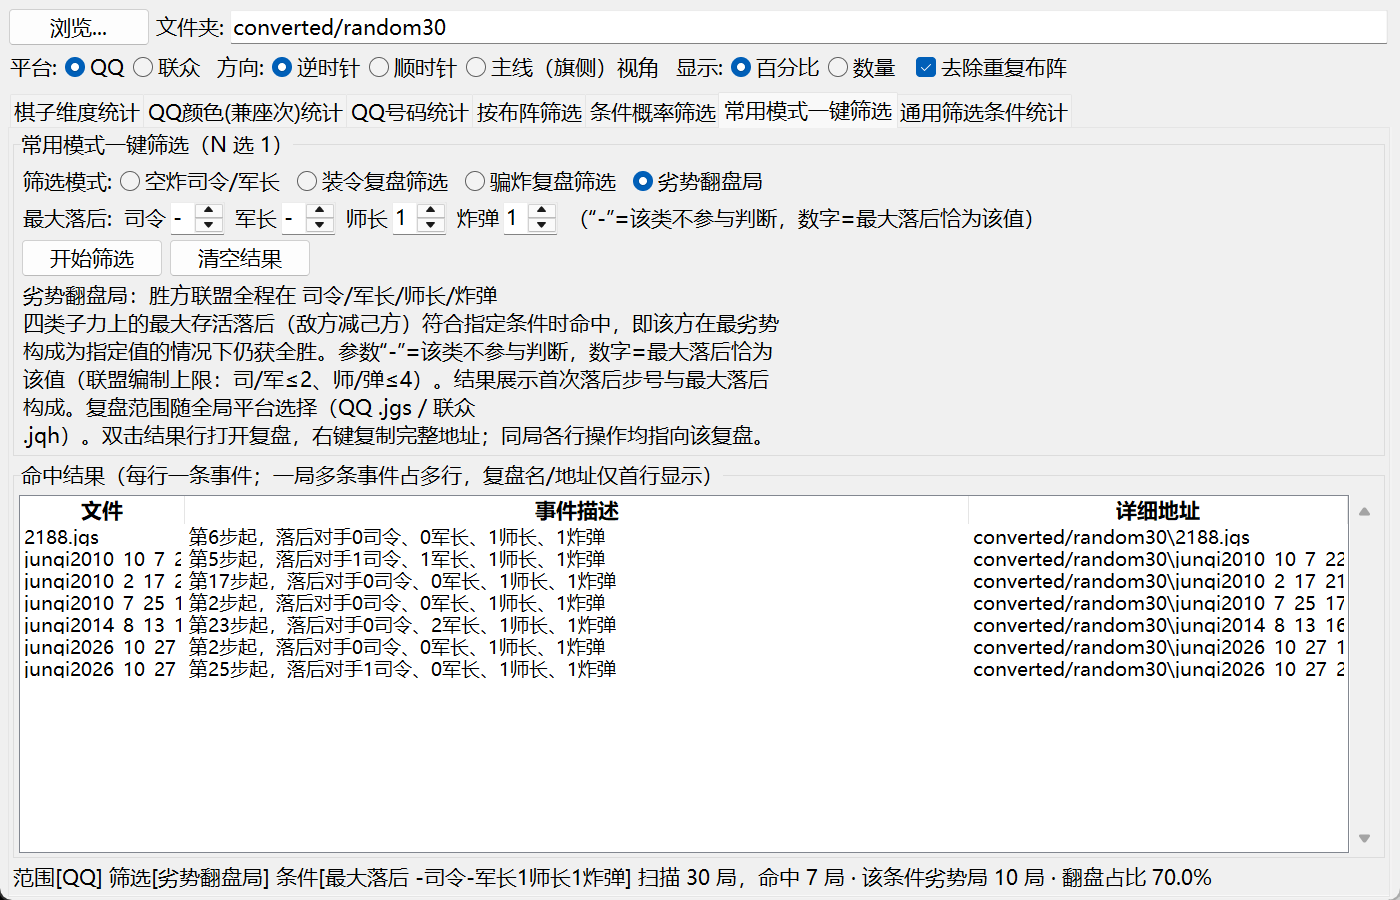
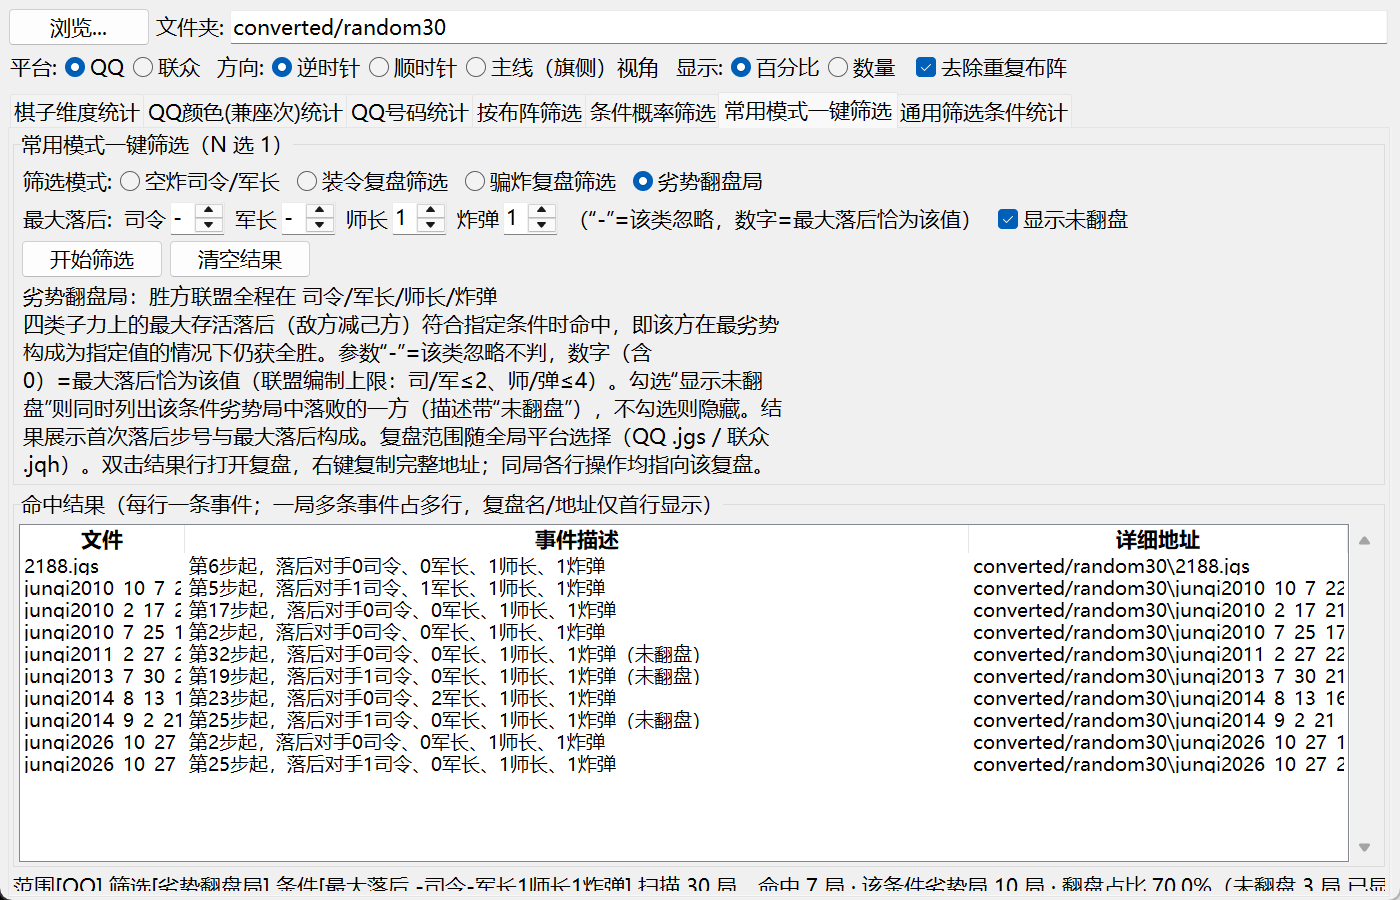
feat: comeback filter restores 0 tier and adds show-non-comeback toggle
Params now offer "-" (ignore), 0 (strict zero deficit) and exact values.
New 显示未翻盘 checkbox lists the disadvantage games where the trailing
side lost (desc suffixed 未翻盘) from cached results without rescanning;
hidden by default. Analysis functions return (win_rows, loss_rows) with
per-game mutual exclusion.

diff --git a/stats_gui.py b/stats_gui.py
@@ -4390,10 +4390,12 @@ HINT_PIANZHA = (
 HINT_COMEBACK = (
     "劣势翻盘局：胜方联盟全程在 司令/军长/师长/炸弹 四类子力上的最大存活"
     "落后（敌方减己方）符合指定条件时命中，即该方在最劣势构成为指定值的"
-    "情况下仍获全胜。参数“-”=该类不参与判断，数字=最大落后恰为该值"
-    "（联盟编制上限：司/军≤2、师/弹≤4）。结果展示首次落后步号与最大落后"
-    "构成。复盘范围随全局平台选择（QQ .jgs / 联众 .jqh）。双击结果行打开"
-    "复盘，右键复制完整地址；同局各行操作均指向该复盘。")
+    "情况下仍获全胜。参数“-”=该类忽略不判，数字（含 0）=最大落后恰为"
+    "该值（联盟编制上限：司/军≤2、师/弹≤4）。勾选“显示未翻盘”则同时列出"
+    "该条件劣势局中落败的一方（描述带“未翻盘”），不勾选则隐藏。结果展示"
+    "首次落后步号与最大落后构成。复盘范围随全局平台选择（QQ .jgs / 联众 "
+    ".jqh）。双击结果行打开复盘，右键复制完整地址；同局各行操作均指向"
+    "该复盘。")
 
 
 class QQQuickFilterPanel(ttk.Frame):
@@ -4459,17 +4461,22 @@ class QQQuickFilterPanel(ttk.Frame):
         self.cb_w = tk.StringVar(value="-")
         ttk.Label(self.comeback_row, text="最大落后:").pack(side=tk.LEFT)
         for label, var, vals in (
-                ("司令", self.cb_x, ("-", "1", "2")),
-                ("军长", self.cb_y, ("-", "1", "2")),
-                ("师长", self.cb_z, ("-", "1", "2", "3", "4")),
-                ("炸弹", self.cb_w, ("-", "1", "2", "3", "4"))):
+                ("司令", self.cb_x, ("-", "0", "1", "2")),
+                ("军长", self.cb_y, ("-", "0", "1", "2")),
+                ("师长", self.cb_z, ("-", "0", "1", "2", "3", "4")),
+                ("炸弹", self.cb_w, ("-", "0", "1", "2", "3", "4"))):
             ttk.Label(self.comeback_row, text=label).pack(
                 side=tk.LEFT, padx=(8, 2))
             ttk.Spinbox(self.comeback_row, values=vals, width=3,
                         textvariable=var).pack(side=tk.LEFT)
         ttk.Label(self.comeback_row,
-                  text="（“-”=该类不参与判断，数字=最大落后恰为该值）").pack(
+                  text="（“-”=该类忽略，数字=最大落后恰为该值）").pack(
             side=tk.LEFT, padx=(8, 0))
+        self.cb_show_loss = tk.BooleanVar(value=False)
+        ttk.Checkbutton(self.comeback_row, text="显示未翻盘",
+                        variable=self.cb_show_loss,
+                        command=self._on_show_loss_toggle).pack(
+            side=tk.LEFT, padx=(12, 0))
 
         self.btn_row = ttk.Frame(top)
         self.btn_row.pack(fill=tk.X, padx=6, pady=(2, 2))
@@ -4533,6 +4540,11 @@ class QQQuickFilterPanel(ttk.Frame):
                 text=HINT_ZHUANGLING if key == "fake_general" else HINT_PIANZHA)
         self.clear_stats()
 
+    def _on_show_loss_toggle(self) -> None:
+        """勾选切换未翻盘行显隐: 直接按缓存结果重绘, 无需重扫。"""
+        if self._scan_result is not None:
+            self._poll_worker()
+
     def _start_scan(self) -> None:
         folder = self._folder_var.get().strip()
         if not folder or not Path(folder).is_dir():
@@ -4580,10 +4592,11 @@ class QQQuickFilterPanel(ttk.Frame):
                         for jqh_file in files:
                             try:
                                 raw = open(jqh_file, "rb").read()
-                                hits, cond = find_jqh_comeback_games(
+                                win_hits, loss_hits = find_jqh_comeback_games(
                                     raw, comeback_limits)
-                                cond_games += int(cond)
-                                for rec in hits:
+                                cond_games += int(bool(win_hits)
+                                                  or bool(loss_hits))
+                                for rec in win_hits + loss_hits:
                                     rows.append((jqh_file, rec))
                             except Exception:
                                 failed += 1
@@ -4596,10 +4609,11 @@ class QQQuickFilterPanel(ttk.Frame):
                         for jgs_file in files:
                             try:
                                 rep = parse_jgs(jgs_file)
-                                hits, cond = find_comeback_games(
+                                win_hits, loss_hits = find_comeback_games(
                                     rep, comeback_limits)
-                                cond_games += int(cond)
-                                for rec in hits:
+                                cond_games += int(bool(win_hits)
+                                                  or bool(loss_hits))
+                                for rec in win_hits + loss_hits:
                                     rows.append((jgs_file, rec))
                             except Exception:
                                 failed += 1
@@ -4727,16 +4741,30 @@ class QQQuickFilterPanel(ttk.Frame):
             return f"{side}方，{ev['a']}骗炸（{ev['y']}步）"
 
         hit_files = set()
+        win_files: set[str] = set()
+        loss_files: set[str] = set()
+        shown_files: set[str] = set()
         n_empty = 0
         for full_path, recs in grouped.items():
             hit_files.add(os.path.basename(full_path))
             for k, r in enumerate(recs):
                 if filter_key == "comeback":
+                    is_loss = bool(r.get("loss"))
+                    if is_loss:
+                        loss_files.add(full_path)
+                        if not self.cb_show_loss.get():
+                            continue
+                    else:
+                        win_files.add(full_path)
                     x, y, z, w = r["deficit"]
                     desc = (f"第{r['start']}步起，落后对手"
                             f"{x}司令、{y}军长、{z}师长、{w}炸弹")
-                    values = (os.path.basename(full_path) if k == 0 else "",
-                              desc, full_path if k == 0 else "")
+                    if is_loss:
+                        desc += "（未翻盘）"
+                    first = full_path not in shown_files
+                    shown_files.add(full_path)
+                    values = (os.path.basename(full_path) if first else "",
+                              desc, full_path if first else "")
                 elif filter_key in ("fake_general", "bomb_bait"):
                     values = (os.path.basename(full_path) if k == 0 else "",
                               fake_desc(r), full_path if k == 0 else "")
@@ -4760,13 +4788,16 @@ class QQQuickFilterPanel(ttk.Frame):
         if filter_key == "comeback":
             x, y, z, w = self.cb_x.get(), self.cb_y.get(), self.cb_z.get(), \
                 self.cb_w.get()
-            pct = (f"{100.0 * len(hit_files) / cond_games:.1f}%"
+            pct = (f"{100.0 * len(win_files) / cond_games:.1f}%"
                    if cond_games else "—")
             status = (f"范围[{platform_text}] 筛选[劣势翻盘局] "
                       f"条件[最大落后 {x}司令{y}军长{z}师长{w}炸弹] "
-                      f"扫描 {total} 局，命中 {len(hit_files)} 局"
+                      f"扫描 {total} 局，命中 {len(win_files)} 局"
                       f" · 该条件劣势局 {cond_games} 局"
                       f" · 翻盘占比 {pct}")
+            if loss_files:
+                state = "已显示" if self.cb_show_loss.get() else "已隐藏"
+                status += f"（未翻盘 {len(loss_files)} 局 {state}）"
         elif filter_key in ("fake_general", "bomb_bait"):
             name_text = "装令复盘" if filter_key == "fake_general" else "骗炸复盘"
             status = (f"范围[{platform_text}] 筛选[{name_text}] 扫描 {total} 局，"

diff --git a/src/qq_replay.py b/src/qq_replay.py
@@ -1362,19 +1362,19 @@ COMEBACK_TYPES = (("司", int(ItemType.Silin)), ("军", int(ItemType.Junzhang)),
 def find_comeback_games(
     replay: QQReplay,
     limits: tuple[int | None, int | None, int | None, int | None],
-) -> tuple[list[dict], bool]:
+) -> tuple[list[dict], list[dict]]:
     """劣势翻盘局: 胜方联盟对败方联盟的四类子力存活落后全程最大值恰为 limits。
 
     落后(逐类) = 敌方联盟存活数 - 己方联盟存活数; "最大落后"取四类分量各自
     的全程最大(可能出现在不同时刻, 与参数域 X,Y∈[0,2]、Z,W∈[0,4] 的联盟
     编制上限自洽)。limits 中 None = 该类不参与判断。
-    返回 (rows, cond): rows 仅当胜方存在且参与判断分量均恰值时非空,
-    为 [{"start": 首次落后步, "deficit": 最大落后构成, "winners": 胜方}];
-    cond = 任一方(含败方)的最大落后符合条件——作翻盘占比的分母口径。
+    返回 (win_rows, loss_rows): win_rows = 胜方最大落后符合(翻盘),
+    loss_rows = 落后方未获胜(未翻盘, 含无胜方局, rec 带 "loss": True),
+    各局至多一类命中。两者任一非空即计"该条件劣势局"(翻盘占比分母)。
     """
     split = _team_split(replay.orient)
     if split is None:
-        return [], False
+        return [], []
     team_a, team_b = split
     analysis = replay.analyze()
     winners = list(analysis.winner) if analysis.winner else []
@@ -1427,17 +1427,30 @@ def find_comeback_games(
 
     series_a, peak_a = peak_of(team_a, team_b)
     series_b, peak_b = peak_of(team_b, team_a)
-    cond = matches(peak_a) or matches(peak_b)
-    if not winners:
-        return [], cond
+
+    def start_of(series) -> int:
+        return next((s for s, v in series if any(x > 0 for x in v)), 0)
+
+    win_rows: list[dict] = []
+    loss_rows: list[dict] = []
     if winners == team_a:
-        series, peak = series_a, peak_a
+        win_series, win_peak = series_a, peak_a
+        loss_series, loss_peak = series_b, peak_b
     else:
-        series, peak = series_b, peak_b
-    if not matches(peak):
-        return [], cond
-    start = next((s for s, v in series if any(x > 0 for x in v)), 0)
-    return [{"start": start, "deficit": peak, "winners": winners}], cond
+        win_series, win_peak = series_b, peak_b
+        loss_series, loss_peak = series_a, peak_a
+    if winners and matches(win_peak):
+        win_rows.append({"start": start_of(win_series), "deficit": win_peak,
+                         "winners": winners})
+    elif winners and matches(loss_peak):
+        loss_rows.append({"start": start_of(loss_series),
+                          "deficit": loss_peak, "loss": True})
+    elif not winners:
+        for series_s, peak_s in ((series_a, peak_a), (series_b, peak_b)):
+            if matches(peak_s):
+                loss_rows.append({"start": start_of(series_s),
+                                  "deficit": peak_s, "loss": True})
+    return win_rows, loss_rows
 
 
 def match_fake_general(traces: list[dict]) -> list[dict]:

diff --git a/src/lianzhong.py b/src/lianzhong.py
@@ -753,13 +753,13 @@ COMEBACK_TYPES = ("司", "军", "师", "弹")
 def find_jqh_comeback_games(
     raw: bytes,
     limits: tuple[int | None, int | None, int | None, int | None],
-) -> tuple[list[dict], bool]:
+) -> tuple[list[dict], list[dict]]:
     """劣势翻盘局(联众口径): 胜方联盟四类子力存活落后全程最大值恰为 limits。
 
     落后(逐类) = 敌方联盟存活数 - 己方联盟存活数(步 = 行棋区条目序号,
     含 Pass/GiveUp, 与官方复盘器步号一致)。limits 中 None = 该类不参与判断。
-    返回 (rows, cond), 语义同 QQ 侧 find_comeback_games(分平台各自推演,
-    死亡结算语义不同)。
+    返回 (win_rows, loss_rows), 语义同 QQ 侧 find_comeback_games
+    (分平台各自推演, 死亡结算语义不同)。
     """
     eliminated: dict[str, str] = {}
     counts: list[tuple[int, dict[str, list[int]]]] = []
@@ -787,7 +787,7 @@ def find_jqh_comeback_games(
         side_a = [c for c in ("蓝", "红") if c in colors]
         side_b = [c for c in ("绿", "黑") if c in colors]
     if not side_a or not side_b:
-        return [], False
+        return [], []
 
     def peak_of(side, opp):
         def vec(cnt):
@@ -804,18 +804,31 @@ def find_jqh_comeback_games(
 
     series_a, peak_a = peak_of(side_a, side_b)
     series_b, peak_b = peak_of(side_b, side_a)
-    cond = matches(peak_a) or matches(peak_b)
+
+    def start_of(series) -> int:
+        return next((s for s, v in series if any(x > 0 for x in v)), 0)
+
+    win_rows: list[dict] = []
+    loss_rows: list[dict] = []
     winners, _text = determine_jqh_end_result(eliminated, colors)
-    if not winners:
-        return [], cond
-    if list(winners) == side_a:
-        series, peak = series_a, peak_a
+    if winners and list(winners) == side_a:
+        win_series, win_peak = series_a, peak_a
+        loss_series, loss_peak = series_b, peak_b
     else:
-        series, peak = series_b, peak_b
-    if not matches(peak):
-        return [], cond
-    start = next((s for s, v in series if any(x > 0 for x in v)), 0)
-    return [{"start": start, "deficit": peak, "winners": winners}], cond
+        win_series, win_peak = series_b, peak_b
+        loss_series, loss_peak = series_a, peak_a
+    if winners and matches(win_peak):
+        win_rows.append({"start": start_of(win_series), "deficit": win_peak,
+                         "winners": winners})
+    elif winners and matches(loss_peak):
+        loss_rows.append({"start": start_of(loss_series),
+                          "deficit": loss_peak, "loss": True})
+    elif not winners:
+        for series_s, peak_s in ((series_a, peak_a), (series_b, peak_b)):
+            if matches(peak_s):
+                loss_rows.append({"start": start_of(series_s),
+                                  "deficit": peak_s, "loss": True})
+    return win_rows, loss_rows
 
 
 def determine_jqh_end_result(
